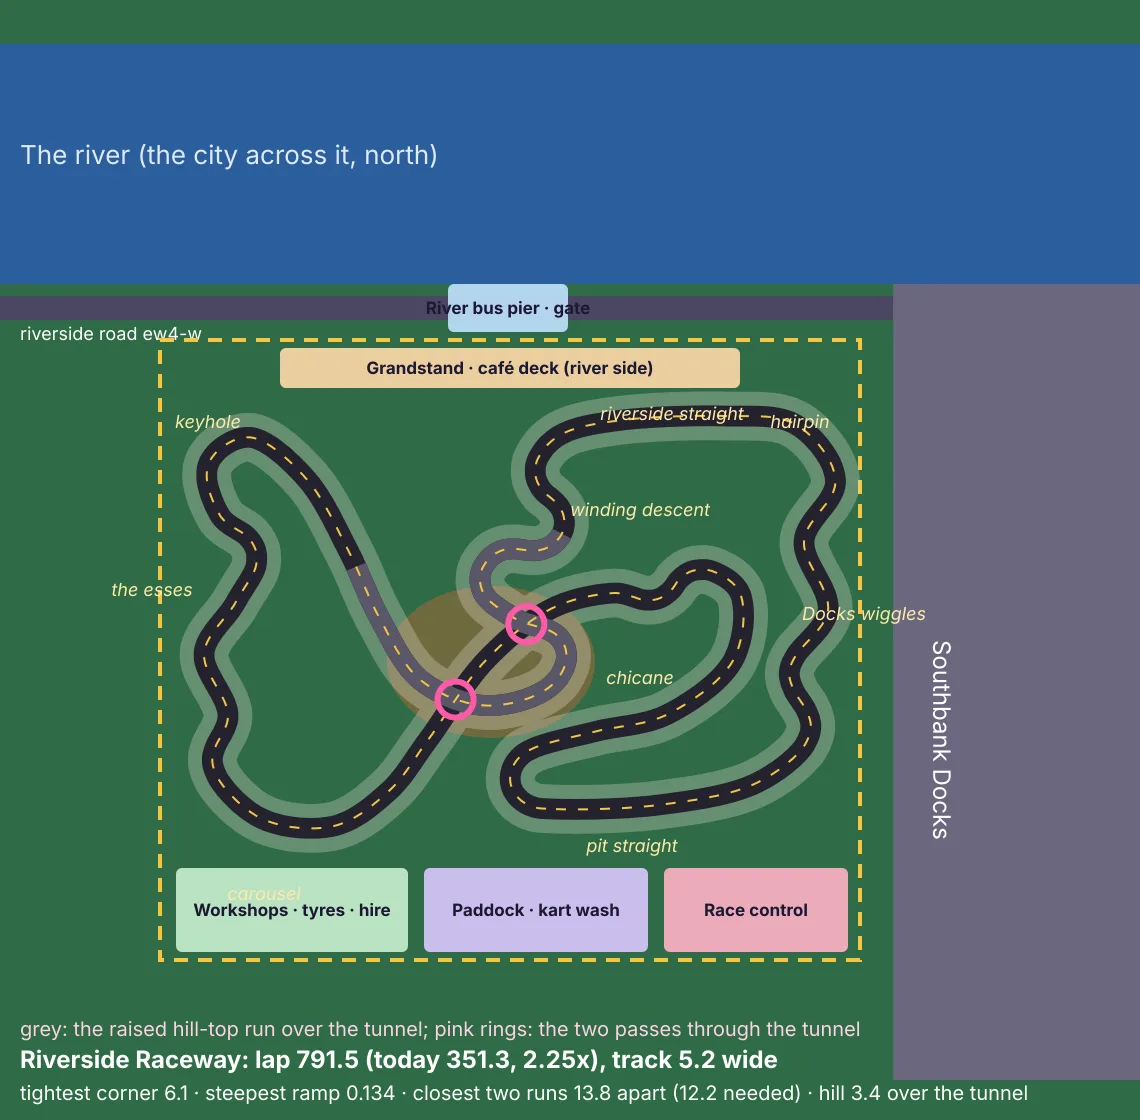
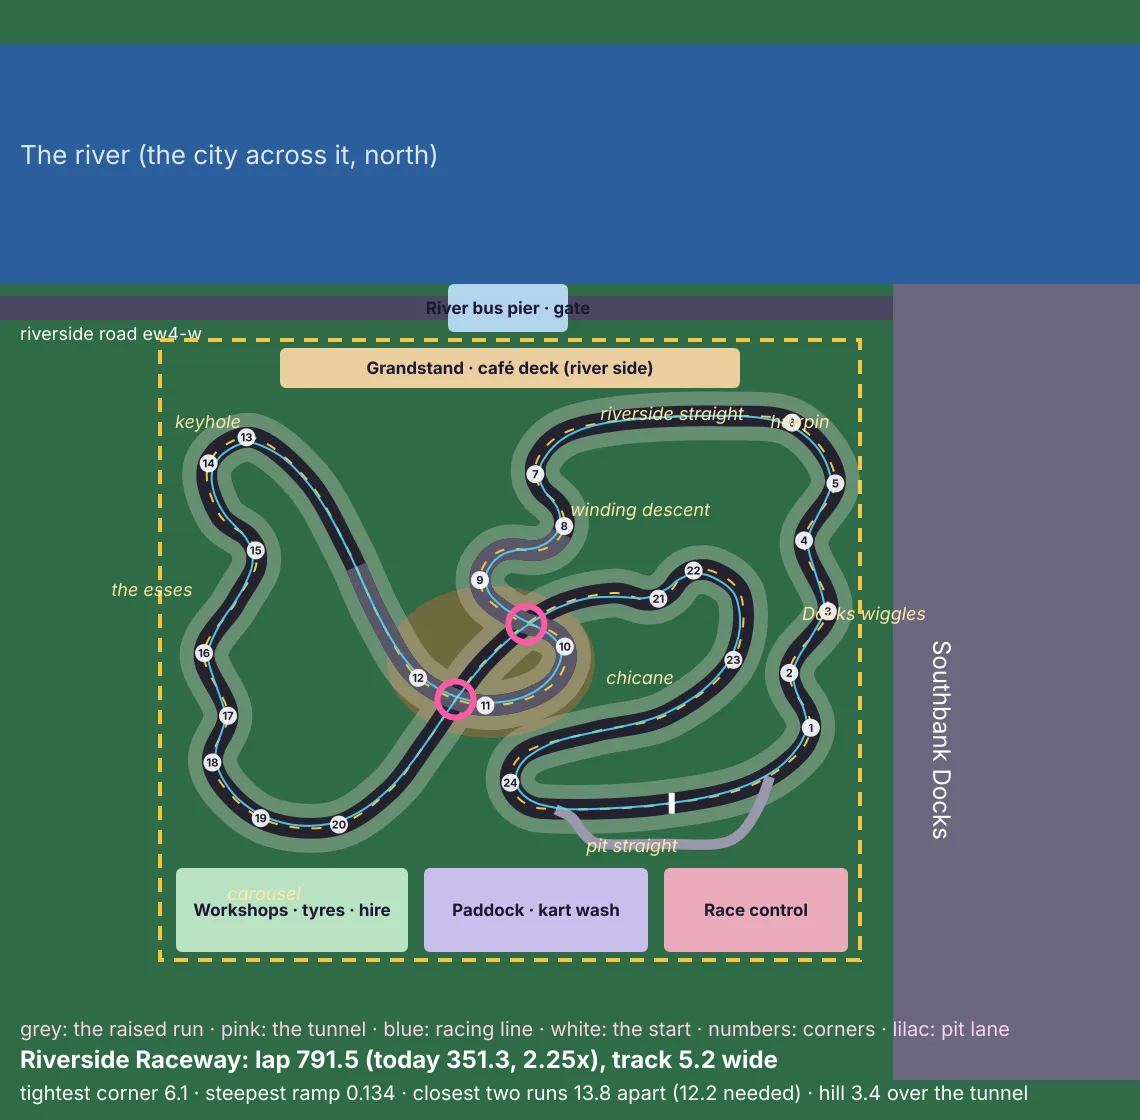
Riverside Raceway, Phase 1b: both courses, the start, the corners, the grid, the pit lane, the racing lines (#258)
Claude-Session: https://claude.ai/code/session_018cDkyg9dCCdJ9iAjvzNcQQ

diff --git a/src/scripts/city3d/kartcircuit2.ts b/src/scripts/city3d/kartcircuit2.ts
@@ -177,3 +177,163 @@ function build(): Circuit2 {
 }
 
 export const CIRCUIT2: Circuit2 = build();
+
+/* ---------- Phase 1b: the courses both ways, the start, the corners, the grid, the pit lane, the racing lines ---------- */
+
+/** A kart's half width (karts.ts keeps to it), and how far in from the track's edge the racing line keeps its middle */
+export const KART2_HALF = 0.55;
+export const LINE_MARGIN = KART2_HALF + 0.35;
+/** The start / finish line crosses the pit straight here (u), in front of race control */
+export const START2_U = 128;
+/** How many race, the grid's two columns either side of the middle, and the usual laps */
+export const GRID2 = 8;
+export const GRID2_LATERAL = 1.2;
+export const LAPS2 = 3;
+
+export type Course2Id = 'riverside' | 'riverside-reverse';
+export const COURSE2_IDS: Course2Id[] = ['riverside', 'riverside-reverse'];
+export interface Course2 {
+  id: Course2Id;
+  name: string;
+  blurb: string;
+  reverse: boolean;
+  laps: number;
+  /** The centre line in race order, sampled every `step` (the reverse: the same surface the other way) */
+  x: number[];
+  z: number[];
+  y: number[];
+  u: number[];
+  v: number[];
+  L: number;
+  step: number;
+  /** Curvature at each sample (1 / radius, positive turning left as raced) */
+  k: number[];
+  /** Where the start line crosses (s) */
+  start: number;
+  /** The numbered corners' apexes (s), in race order from the line */
+  turns: { n: number; s: number; left: boolean }[];
+  /** The racing line: how far right of the centre line (negative: left) a kart aims at each sample */
+  line: number[];
+}
+
+/** Curvature along a closed line of points `step` apart (from the turn of its direction over `w` samples each side) */
+function curvature(x: number[], z: number[], step: number, w = 4): number[] {
+  const n = x.length;
+  return x.map((_, i) => {
+    const [a, b, c] = [(i - w + n) % n, i, (i + w) % n];
+    const h1 = Math.atan2(z[b] - z[a], x[b] - x[a]);
+    const h2 = Math.atan2(z[c] - z[b], x[c] - x[b]);
+    let d = h2 - h1;
+    while (d > Math.PI) d -= 2 * Math.PI;
+    while (d < -Math.PI) d += 2 * Math.PI;
+    // (x east, z south: a clockwise turn in x, z is a left turn as seen driving)
+    return -d / (w * step);
+  });
+}
+/** A closed list smoothed `passes` times over `w` samples each side */
+function smooth(a: number[], w: number, passes = 1): number[] {
+  let cur = a;
+  const n = a.length;
+  for (let p = 0; p < passes; p++) {
+    const next = new Array<number>(n).fill(0);
+    let sum = 0;
+    for (let d = -w; d <= w; d++) sum += cur[(d + n) % n];
+    for (let i = 0; i < n; i++) {
+      next[i] = sum / (2 * w + 1);
+      sum += cur[(i + w + 1) % n] - cur[(i - w + n) % n];
+    }
+    cur = next;
+  }
+  return cur;
+}
+
+function makeCourse2(id: Course2Id): Course2 {
+  const reverse = id === 'riverside-reverse';
+  const n = CIRCUIT2.x.length;
+  const order = reverse ? [0, ...Array.from({ length: n - 1 }, (_, i) => n - 1 - i)] : Array.from({ length: n }, (_, i) => i);
+  const pick = (a: number[]) => order.map((i) => a[i]);
+  const [x, z, y, u, v] = [pick(CIRCUIT2.x), pick(CIRCUIT2.z), pick(CIRCUIT2.y), pick(CIRCUIT2.u), pick(CIRCUIT2.v)];
+  const step = CIRCUIT2.step;
+  const k = curvature(x, z, step);
+  // The start: where the pit straight (the south, v past 108) crosses START2_U
+  let start = 0;
+  for (let i = 0; i < n; i++) {
+    const j = (i + 1) % n;
+    if (v[i] > 108 && (u[i] - START2_U) * (u[j] - START2_U) <= 0 && u[i] !== u[j]) {
+      start = (i + (START2_U - u[i]) / (u[j] - u[i])) * step;
+      break;
+    }
+  }
+  // The corners: where the smoothed curvature peaks past a radius of 30, at least 10 apart, numbered from the line
+  const ks = smooth(k, 6, 2);
+  const peaks: number[] = [];
+  for (let i = 0; i < n; i++) {
+    const a = Math.abs(ks[i]);
+    if (a < 1 / 30) continue;
+    let top = true;
+    for (let d = -20; d <= 20 && top; d++) if (d && Math.abs(ks[(i + d + n) % n]) > a) top = false;
+    if (top && peaks.every((p) => Math.min(Math.abs(p - i), n - Math.abs(p - i)) * step >= 10)) peaks.push(i);
+  }
+  const L = n * step;
+  const turns = peaks
+    .map((i) => ({ s: i * step, left: ks[i] > 0 }))
+    .sort((a, b) => ((a.s - start + L) % L) - ((b.s - start + L) % L))
+    .map((t, i) => ({ n: i + 1, ...t }));
+  // The racing line: in to the apex of each corner (to its inside), out wide either side, kept on the track
+  const reach = TRACK2_HALF - LINE_MARGIN;
+  const lead = Math.round(6 / step);
+  const raw = ks.map((_, i) => {
+    const here = ks[i];
+    const around = (ks[(i - lead + n) % n] + ks[(i + lead) % n]) / 2;
+    // (inside is the left of a left turn: negative lateral; the apex pull, less where the corner is opening or closing)
+    return -Math.sign(here) * Math.min(1, Math.abs(here) * 12) + 0.6 * Math.sign(around) * Math.min(1, Math.abs(around - here) * 12);
+  });
+  const line = smooth(raw, Math.round(3 / step), 3).map((o) => Math.max(-reach, Math.min(reach, o * reach)));
+  const names: Record<Course2Id, { name: string; blurb: string }> = {
+    riverside: { name: 'Riverside Raceway', blurb: 'Winding, a tunnel under the hill, the river alongside' },
+    'riverside-reverse': { name: 'Riverside Raceway · reverse', blurb: 'The same circuit, run backwards' },
+  };
+  return { id, ...names[id], reverse, laps: LAPS2, x, z, y, u, v, L, step, k, start, turns, line };
+}
+export const COURSES2: Record<Course2Id, Course2> = { riverside: makeCourse2('riverside'), 'riverside-reverse': makeCourse2('riverside-reverse') };
+
+/** The grid: on the pit straight behind the line, two abreast and staggered; slot 0 is pole */
+export function gridSlots2(c: Course2): { s: number; lateral: number }[] {
+  return Array.from({ length: GRID2 }, (_, i) => ({ s: (c.start - 2 - Math.floor(i / 2) * 2.8 - (i % 2) * 1.3 + c.L) % c.L, lateral: (i % 2 ? -1 : 1) * GRID2_LATERAL }));
+}
+
+/** The pit lane's half width, and where it runs straight along the garages (u, v), south of the pit straight past its run-off */
+export const PIT2_HALF = 1.3;
+export const PIT2_STRAIGHT = { u0: 110, u1: 140, v: 126 } as const;
+/**
+ * The pit lane, forward: off the pit straight before the line (its west end), south and east along the garages in front of
+ * race control, back on after the line (its east end, before the Docks wiggles). Open (not a loop), sampled every STEP2.
+ */
+export const PIT2_LANE: { u: number[]; v: number[]; x: number[]; z: number[] } = (() => {
+  const P: Pt[] = [[99, 117.4], [103, 119.5], [106.5, 124], [111, 126], [126, 126], [139, 126], [145, 123.5], [149.5, 117], [152.5, 109.2]];
+  // (a Catmull-Rom through them, the ends held)
+  const ext: Pt[] = [P[0], ...P, P[P.length - 1]];
+  const dense: Pt[] = [];
+  for (let i = 1; i < ext.length - 2; i++) {
+    const [p0, p1, p2, p3] = [ext[i - 1], ext[i], ext[i + 1], ext[i + 2]];
+    for (let k = 0; k < 30; k++) {
+      const t = k / 30;
+      const [t2, t3] = [t * t, t * t * t];
+      dense.push([0, 1].map((j) => 0.5 * (2 * p1[j] + (-p0[j] + p2[j]) * t + (2 * p0[j] - 5 * p1[j] + 4 * p2[j] - p3[j]) * t2 + (-p0[j] + 3 * p1[j] - 3 * p2[j] + p3[j]) * t3)) as Pt);
+    }
+  }
+  dense.push(P[P.length - 1]);
+  const u = dense.map((p) => p[0]);
+  const v = dense.map((p) => p[1]);
+  return { u, v, x: u.map((q) => SITE2.x0 + q), z: v.map((q) => SITE2.z0 + q) };
+})();
+
+/** How far a point (in the site's frame) is from the circuit's centre line, and the nearest sample */
+export function nearestTrack2(u: number, v: number): { d: number; i: number } {
+  let best = { d: Infinity, i: 0 };
+  for (let i = 0; i < CIRCUIT2.u.length; i++) {
+    const d = Math.hypot(CIRCUIT2.u[i] - u, CIRCUIT2.v[i] - v);
+    if (d < best.d) best = { d, i };
+  }
+  return best;
+}

diff --git a/tests/kartcircuit2.test.ts b/tests/kartcircuit2.test.ts
@@ -75,3 +75,93 @@ test('inside its site with its run-off, clear of the Docks, the streets and ever
     assert.ok(Math.hypot(dx, dz) > CLEAR2, `a solid ${b.slice(0, 4)} at ${at(i)}`);
   }
 });
+
+// ---------- Phase 1b: the courses both ways, the start, the corners, the grid, the pit lane, the racing lines ----------
+
+test('both courses: the same surface each way, the start on the pit straight in front of race control', async () => {
+  const { COURSES2, COURSE2_IDS, START2_U } = await import('../src/scripts/city3d/kartcircuit2');
+  assert.deepEqual(COURSE2_IDS, ['riverside', 'riverside-reverse']);
+  const [f, r] = [COURSES2.riverside, COURSES2['riverside-reverse']];
+  assert.equal(f.name, 'Riverside Raceway');
+  assert.ok(!f.reverse && r.reverse);
+  assert.equal(f.L, r.L);
+  // The reverse: the same points the other way round
+  assert.equal(r.x[0], f.x[0]);
+  assert.equal(r.x[1], f.x[f.x.length - 1]);
+  for (const c of [f, r]) {
+    const i = Math.round(c.start / c.step) % c.x.length;
+    assert.ok(Math.abs(c.u[i] - START2_U) < 1 && c.v[i] > 108, `${c.id}'s line at ${c.u[i].toFixed(1)}, ${c.v[i].toFixed(1)}`);
+  }
+});
+
+test('the corners: many of them, lefts and rights, numbered in race order from the line, a mirror the other way', async () => {
+  const { COURSES2 } = await import('../src/scripts/city3d/kartcircuit2');
+  const [f, r] = [COURSES2.riverside, COURSES2['riverside-reverse']];
+  for (const c of [f, r]) {
+    assert.ok(c.turns.length >= 16, `${c.id}: ${c.turns.length} corners`);
+    assert.ok(c.turns.some((t) => t.left) && c.turns.some((t) => !t.left));
+    const after = c.turns.map((t) => (t.s - c.start + c.L) % c.L);
+    for (let i = 1; i < after.length; i++) assert.ok(after[i] > after[i - 1], 'numbered in order');
+    assert.deepEqual(c.turns.map((t) => t.n), c.turns.map((_, i) => i + 1));
+  }
+  // The same corners, each turning the other way
+  assert.equal(f.turns.length, r.turns.length);
+  assert.equal(f.turns.filter((t) => t.left).length, r.turns.filter((t) => !t.left).length);
+});
+
+test('the grid: eight on the pit straight behind the line, on the track, two abreast', async () => {
+  const { COURSES2, GRID2, gridSlots2, TRACK2_HALF, KART2_HALF } = await import('../src/scripts/city3d/kartcircuit2');
+  for (const c of Object.values(COURSES2)) {
+    const slots = gridSlots2(c);
+    assert.equal(slots.length, GRID2);
+    for (const g of slots) {
+      const i = Math.round(g.s / c.step) % c.x.length;
+      assert.ok(c.v[i] > 108, `${c.id}: a slot off the pit straight at ${c.u[i].toFixed(1)}, ${c.v[i].toFixed(1)}`);
+      assert.ok(Math.abs(g.lateral) + KART2_HALF < TRACK2_HALF);
+      const behind = (c.start - g.s + c.L) % c.L;
+      assert.ok(behind > 0 && behind < 20, `${c.id}: a slot ${behind.toFixed(1)} behind the line`);
+    }
+  }
+});
+
+test('the racing line: on the track with room for a kart, to the inside at the apexes, shorter than the middle', async () => {
+  const { COURSES2, TRACK2_HALF, KART2_HALF } = await import('../src/scripts/city3d/kartcircuit2');
+  for (const c of Object.values(COURSES2)) {
+    const n = c.x.length;
+    for (const o of c.line) assert.ok(Math.abs(o) + KART2_HALF < TRACK2_HALF, `${c.id}: the line ${o.toFixed(2)} off the middle`);
+    // At most apexes it's to the corner's inside (negative lateral is left)
+    const inside = c.turns.filter((t) => {
+      const i = Math.round(t.s / c.step) % n;
+      return t.left ? c.line[i] < 0 : c.line[i] > 0;
+    }).length;
+    assert.ok(inside >= c.turns.length * 0.75, `${c.id}: inside at ${inside} of ${c.turns.length} apexes`);
+    // And it cuts the corners
+    const at = (i: number): [number, number] => {
+      const j = (i + 1) % n;
+      const [tx, tz] = [c.x[j] - c.x[i], c.z[j] - c.z[i]];
+      const l = Math.hypot(tx, tz) || 1;
+      return [c.x[i] - (tz / l) * c.line[i], c.z[i] + (tx / l) * c.line[i]];
+    };
+    let len = 0;
+    for (let i = 0; i < n; i++) {
+      const [a, b] = [at(i), at((i + 1) % n)];
+      len += Math.hypot(b[0] - a[0], b[1] - a[1]);
+    }
+    assert.ok(len < c.L * 0.98, `${c.id}: the racing line ${len.toFixed(0)} against ${c.L.toFixed(0)}`);
+  }
+});
+
+test('the pit lane: off the pit straight and back on, along the garages clear of the run-off, inside the site', async () => {
+  const { PIT2_LANE, PIT2_STRAIGHT, PIT2_HALF, SITE2: S, nearestTrack2, TRACK2_HALF, CLEAR2: CL } = await import('../src/scripts/city3d/kartcircuit2');
+  const n = PIT2_LANE.u.length;
+  for (const i of [0, n - 1]) assert.ok(nearestTrack2(PIT2_LANE.u[i], PIT2_LANE.v[i]).d < TRACK2_HALF / 2, 'its ends on the track');
+  let straight = 0;
+  for (let i = 0; i < n; i++) {
+    assert.ok(PIT2_LANE.x[i] - PIT2_HALF > S.x0 && PIT2_LANE.x[i] + PIT2_HALF < S.x1 && PIT2_LANE.z[i] + PIT2_HALF < S.z1);
+    if (PIT2_LANE.u[i] < PIT2_STRAIGHT.u0 || PIT2_LANE.u[i] > PIT2_STRAIGHT.u1) continue;
+    straight++;
+    assert.ok(nearestTrack2(PIT2_LANE.u[i], PIT2_LANE.v[i]).d - PIT2_HALF >= CL, `the pit lane in the run-off at u ${PIT2_LANE.u[i].toFixed(1)}`);
+    assert.ok(Math.abs(PIT2_LANE.v[i] - PIT2_STRAIGHT.v) < 0.5);
+  }
+  assert.ok(straight > 20, 'a straight along the garages');
+});

diff --git a/docs/kart-harbour-plan.md b/docs/kart-harbour-plan.md
@@ -124,8 +124,13 @@ Each phase merges on its own and leaves the city working; the new park is behind
 1. **The new circuit as data** (the centre line, its width and heights, done 2026-11-23): `kartcircuit2.ts`
    (DOM-free, on `DOM_FREE`), `CIRCUIT2` sampled every `STEP2`, the hill-top run raised over the tunnel; tested (the
    lap's length, width, radius, slope, the tunnel's two passes and clearance, spacing, the site, streets and solids).
-   **Still to come in Phase 1b:** the start line, the pit lane, the racing lines both ways and the tags (turns,
-   pit-in, pit-out) as today's `kartcircuit.ts` has them.
+   **Phase 1b** (done, 2026-11-23): `COURSES2` both ways (Riverside Raceway and its reverse, the same surface), the
+   start line on the pit straight in front of race control (`START2_U`), the corners found from the curvature and
+   numbered in race order (24 each way, lefts and rights mirrored), the grid (`gridSlots2()`, eight two abreast behind
+   the line), the pit lane (`PIT2_LANE`, off the pit straight before the line and back on before the Docks wiggles,
+   its straight along the garages `PIT2_STRAIGHT` clear of the run-off) and a racing line each way (in to the apexes,
+   out wide either side, on the track with room for a kart, about 4% shorter than the middle); tested, and drawn by
+   `npm run kart-fit`.
 2. **The site and its ground** (`kartpark2.ts`): the park's rect on the land, the ground held level and shaped
    round it (banks, the approach to the river), its solids, its land kept clear of the outskirts' trees, the riverside
    road's edge and the service road. Behind the switch.
